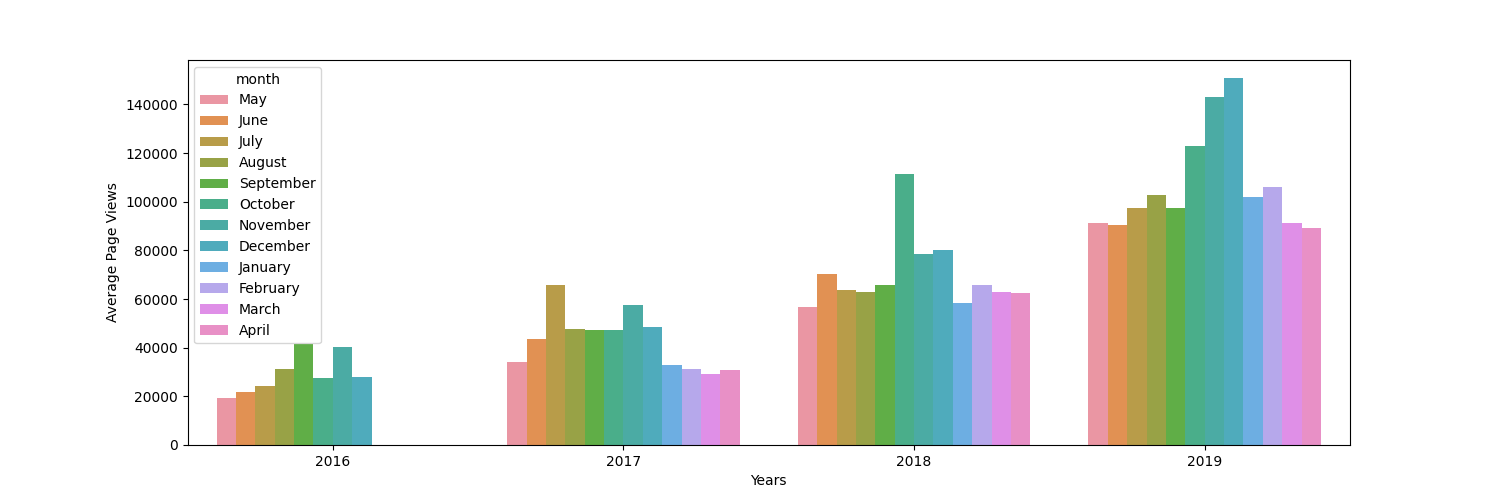
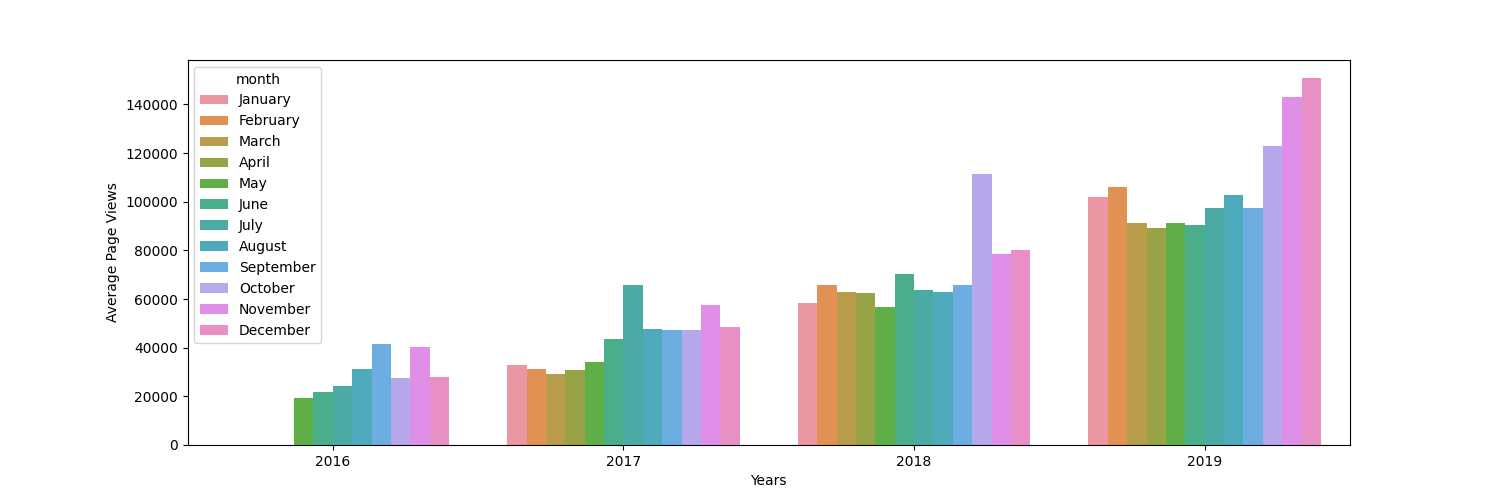
feat: analysis

diff --git a/time_series_visualizer.py b/time_series_visualizer.py
@@ -13,6 +13,8 @@ df = df[
     & (df["value"] <= df["value"].quantile(0.975))
 ]
 
+months = ['January', 'February', 'March', 'April', 'May', 'June', 'July', 'August', 'September', 'October', 'November', 'December']
+
 def draw_line_plot():
     # Draw line plot
     fig, ax = plt.subplots(figsize=(15, 5))
@@ -34,7 +36,7 @@ def draw_bar_plot():
     # Draw bar plot
     fig, ax = plt.subplots(figsize=(15,5))
     
-    ax = sns.barplot(x="year", hue="month", y="value", data=df_bar, ci=None)
+    ax = sns.barplot(x="year", hue="month", y="value", data=df_bar, hue_order=months, ci=None)
     ax.set(xlabel = "Years", ylabel = "Average Page Views")
 
     # Save image and return fig (don't change this part)
@@ -44,15 +46,18 @@ def draw_bar_plot():
 def draw_box_plot():
     # Prepare data for box plots (this part is done!)
     df_box = df.copy()
+    df_box['month_num'] = df_box.index.month
     df_box.reset_index(inplace=True)
     df_box['year'] = [d.year for d in df_box.date]
-    df_box['month'] = [d.strftime('%b') for d in df_box.date]
-
+    df_box['month'] = [d.strftime('%b') for d in df_box.date]    
     # Draw box plots (using Seaborn)
+    df_box = df_box.sort_values('month_num')
 
-
-
-
+    fig, ax = plt.subplots(1, 2, figsize=(15, 5))
+    sns.boxplot(y = "value", x = "year", data = df_box, ax = ax[0]) 
+    ax[0].set(xlabel="Year", ylabel="Page Views", title="Year-wise Box Plot (Trend)")
+    sns.boxplot(y = "value", x = "month", data = df_box, ax = ax[1])
+    ax[1].set(xlabel="Month", ylabel="Page Views", title="Month-wise Box Plot (Seasonality)")
 
     # Save image and return fig (don't change this part)
     fig.savefig('box_plot.png')
